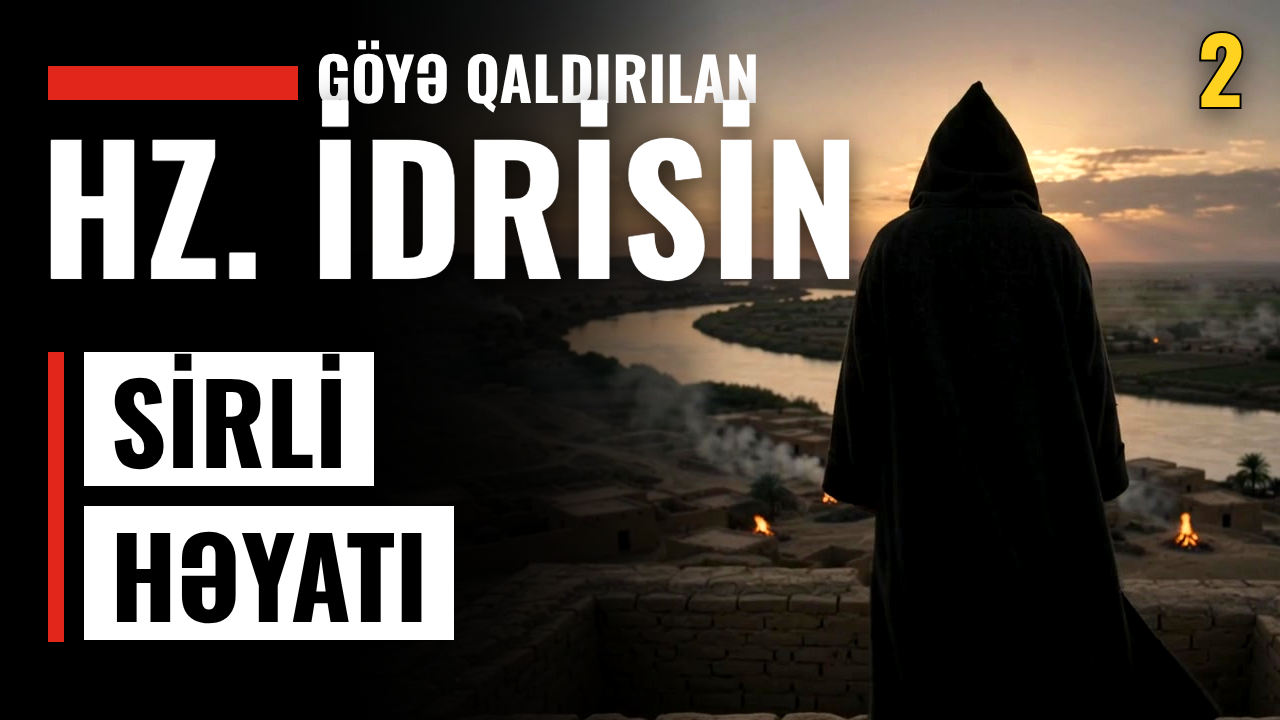
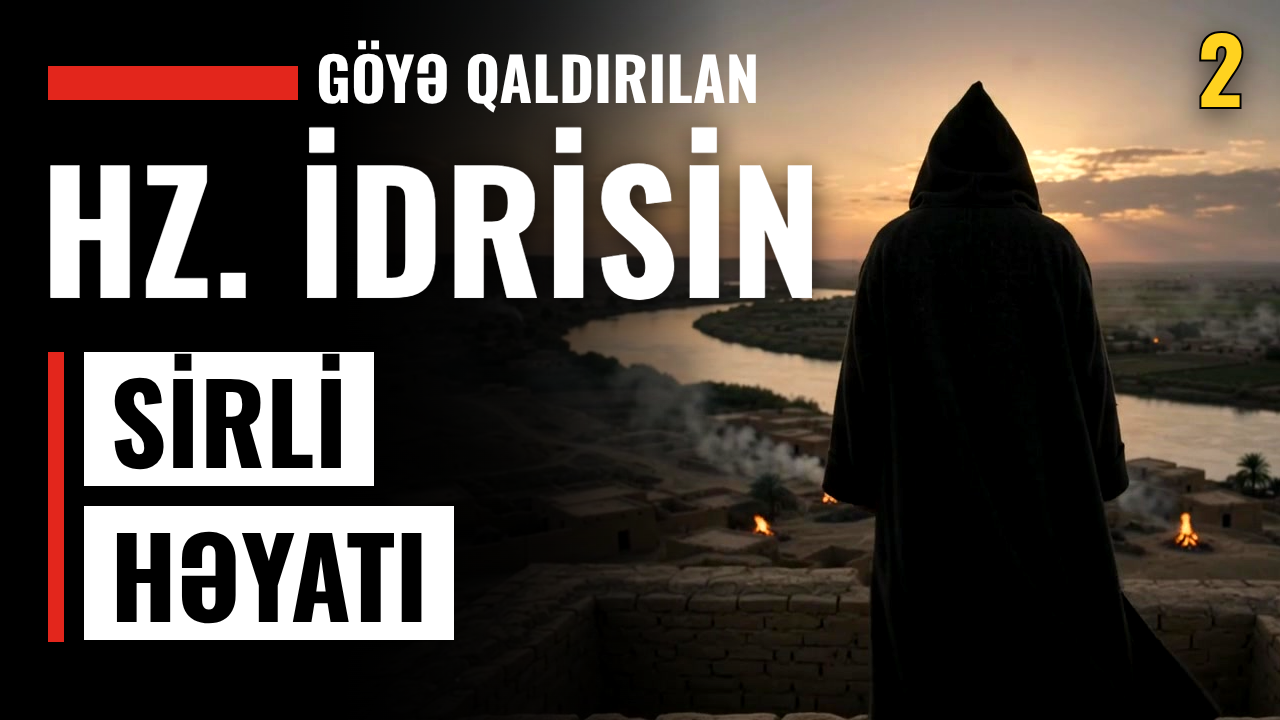
EP2 thumbnail: fix title overlap
Claude-Session: https://claude.ai/code/session_01T8pqt7jT1geX646rxctNS5

Changed region(s): [[0.0312, 0.1222, 0.6875, 0.4278]]

diff --git a/projects/peygemberler/src/Thumbnail3.tsx b/projects/peygemberler/src/Thumbnail3.tsx
@@ -5,7 +5,7 @@ import {AbsoluteFill, Img, staticFile} from 'remotion';
 const O = 'Oswald, sans-serif';
 const RED = '#e3261c';
 
-export const Thumbnail3: React.FC<{img?: string; full?: boolean; top?: string; name?: string; l1?: string; l2?: string; num?: string; nameSize?: number; shift?: number}> = ({img = 'media/ep1/K16.jpg', full = false, top = 'İLK İNSAN', name = 'HZ. ADƏMİN', l1 = 'İNANILMAZ', l2 = 'HƏYATI', num = '1', nameSize, shift}) => (
+export const Thumbnail3: React.FC<{img?: string; full?: boolean; top?: string; name?: string; l1?: string; l2?: string; num?: string; nameSize?: number; shift?: number; nameTop?: number}> = ({img = 'media/ep1/K16.jpg', full = false, top = 'İLK İNSAN', name = 'HZ. ADƏMİN', l1 = 'İNANILMAZ', l2 = 'HƏYATI', num = '1', nameSize, shift, nameTop = 112}) => (
   <AbsoluteFill style={{background: '#000'}}>
     <Img src={staticFile(img)} style={{position: 'absolute', right: shift !== undefined ? -shift : full ? -110 : -260, top: 0, height: 720, width: 1280, objectFit: 'cover', filter: 'contrast(1.15) saturate(1.15) brightness(1.08)', ...(shift !== undefined ? {WebkitMaskImage: 'linear-gradient(90deg, transparent 0%, #000 30%)', maskImage: 'linear-gradient(90deg, transparent 0%, #000 30%)'} : {})}} />
     <AbsoluteFill style={{background: full ? 'linear-gradient(90deg, rgba(0,0,0,0.85) 0%, rgba(0,0,0,0.5) 40%, rgba(0,0,0,0) 58%)' : 'linear-gradient(90deg, #000 0%, #000 34%, rgba(0,0,0,0.6) 50%, rgba(0,0,0,0) 64%)'}} />
@@ -13,7 +13,7 @@ export const Thumbnail3: React.FC<{img?: string; full?: boolean; top?: string; n
     <div style={{position: 'absolute', left: 48, top: 66, width: 250, height: 34, background: RED}} />
     <div style={{position: 'absolute', left: 316, top: 46, fontFamily: O, fontWeight: 700, fontSize: 60, lineHeight: 1, color: '#fff'}}>{top}</div>
     {/* HZ. ADƏMİN */}
-    <div style={{position: 'absolute', left: 40, top: 112, fontFamily: O, fontWeight: 700, fontSize: nameSize ?? (full ? 172 : 190), lineHeight: 1.05, color: '#fff', letterSpacing: 1, textShadow: '0 6px 30px rgba(0,0,0,0.8)', whiteSpace: 'nowrap'}}>{name}</div>
+    <div style={{position: 'absolute', left: 40, top: nameTop, fontFamily: O, fontWeight: 700, fontSize: nameSize ?? (full ? 172 : 190), lineHeight: 1.05, color: '#fff', letterSpacing: 1, textShadow: '0 6px 30px rgba(0,0,0,0.8)', whiteSpace: 'nowrap'}}>{name}</div>
     {/* qırmızı şaquli xətt + ağ qutular */}
     <div style={{position: 'absolute', left: 48, top: 352, width: 16, height: 290, background: RED}} />
     <div style={{position: 'absolute', left: 84, top: 352, background: '#fff', padding: '0 26px', fontFamily: O, fontWeight: 700, fontSize: 110, lineHeight: 1.22, color: '#000'}}>{l1}</div>

diff --git a/projects/peygemberler/src/Root.tsx b/projects/peygemberler/src/Root.tsx
@@ -47,7 +47,7 @@ export const RemotionRoot: React.FC = () => (
       <Composition id="ThumbC" component={Thumbnail2} durationInFrames={1} fps={30} width={1280} height={720} />
       <Composition id="ThumbD" component={Thumbnail3} durationInFrames={1} fps={30} width={1280} height={720} />
       <Composition id="ThumbE" component={Thumbnail3} durationInFrames={1} fps={30} width={1280} height={720} defaultProps={{img: 'media/ep1/thumb_hand.jpg', full: true}} />
-      <Composition id="ThumbIdris" component={Thumbnail3} durationInFrames={1} fps={30} width={1280} height={720} defaultProps={{img: 'media/ep2/thumb_zigg.jpg', full: true, top: 'GÖYƏ QALDIRILAN', name: 'HZ. İDRİSİN', l1: 'SİRLİ', l2: 'HƏYATI', num: '2', shift: 340}} />
+      <Composition id="ThumbIdris" component={Thumbnail3} durationInFrames={1} fps={30} width={1280} height={720} defaultProps={{img: 'media/ep2/thumb_zigg.jpg', full: true, top: 'GÖYƏ QALDIRILAN', name: 'HZ. İDRİSİN', l1: 'SİRLİ', l2: 'HƏYATI', num: '2', shift: 340, nameTop: 138, nameSize: 164}} />
       <Composition id="ThumbV" component={ThumbVertical} durationInFrames={1} fps={30} width={1080} height={1920} />
       <Composition id="Ep2Trailer" component={Trailer} durationInFrames={Math.round(TRAILER_DUR * FPS)} fps={FPS} width={1920} height={1080} />
       {[
